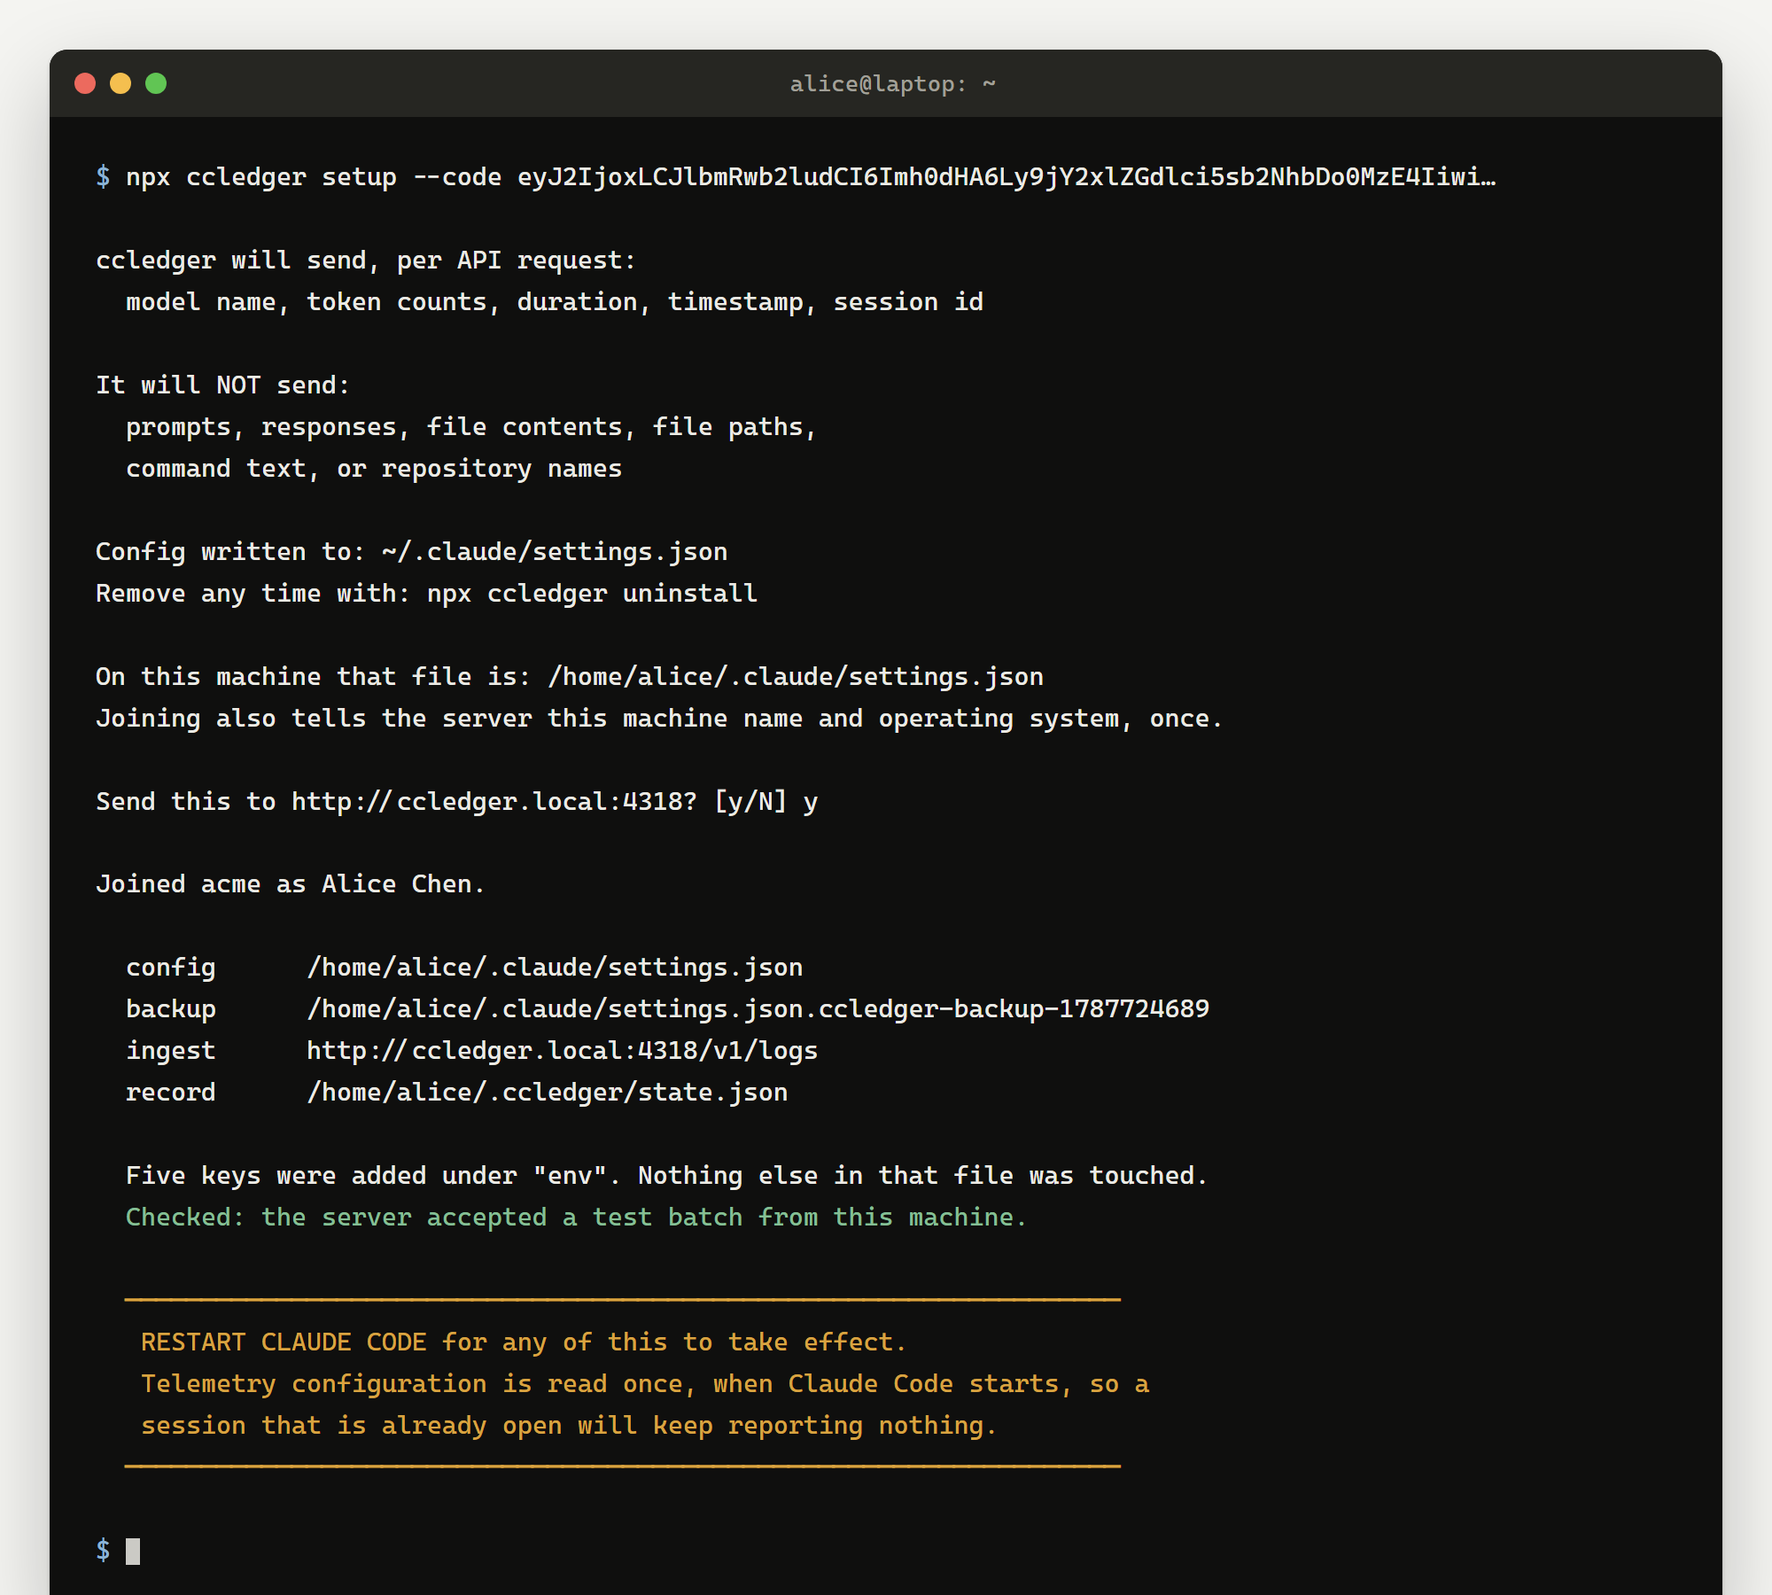
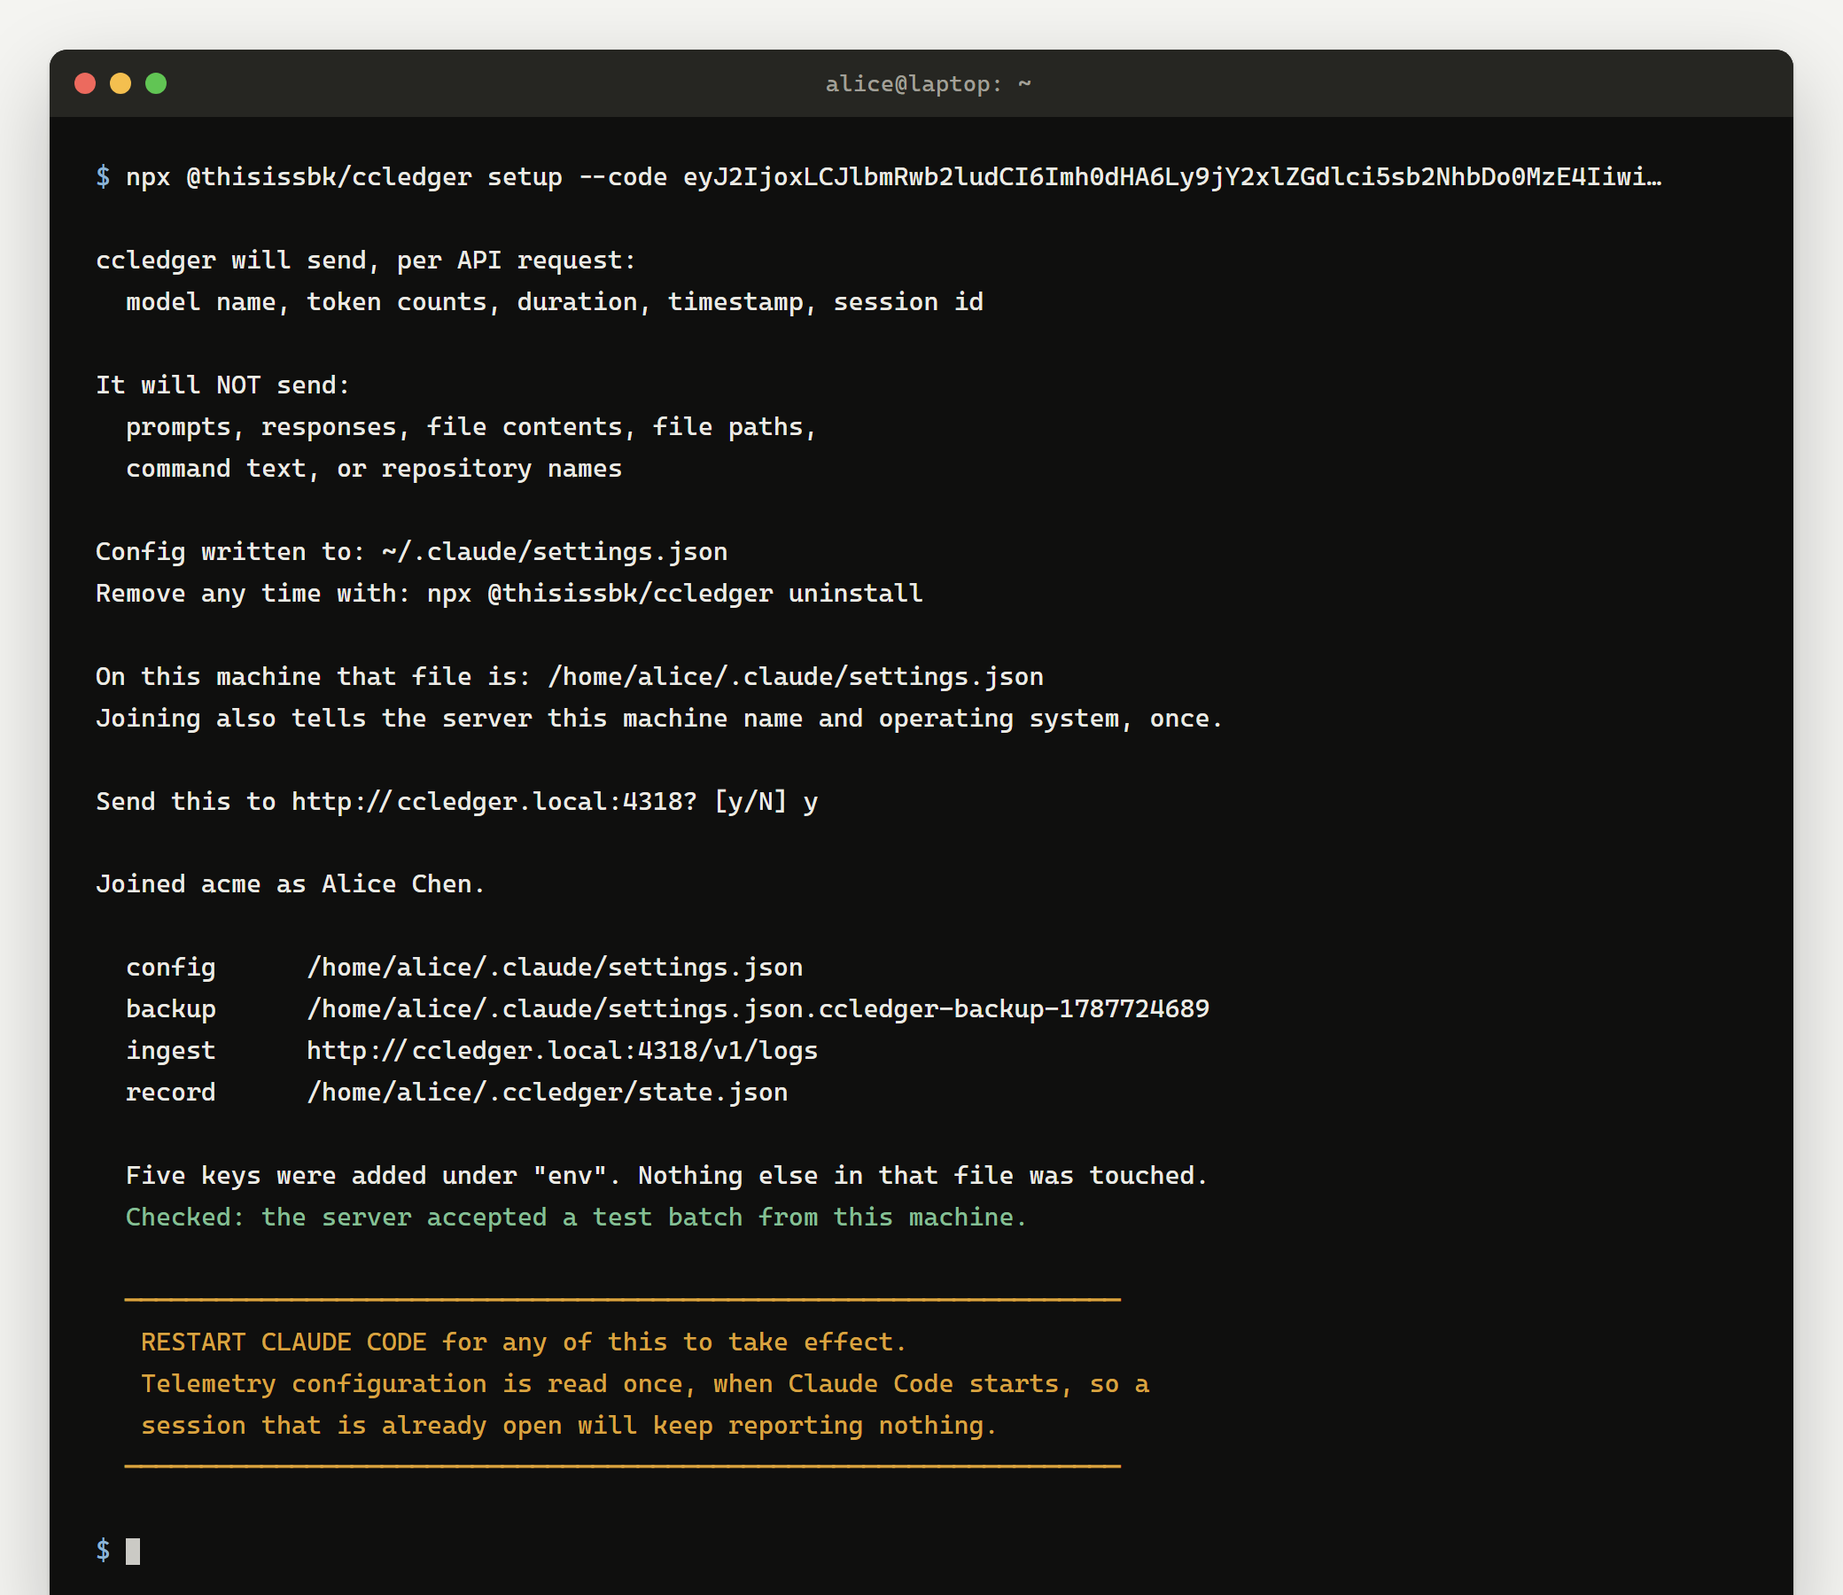
chore: publish under the @thisissbk scope
The registry refused `ccledger` outright: too close to `cc-ledger`, an
unrelated package published a fortnight ago. That is npm's typosquatting
check, and it is not something a maintainer can appeal or opt out of, so
the unscoped name is simply not available to this project.

Scoping is the smallest change that gets past it. The binary is still
`ccledger`, the mDNS name is still ccledger.local, the state directory is
still ~/.ccledger, and every document still calls the thing ccledger —
only the two commands that name the registry had to move.

The two the CLI prints, in the invite and the disclosure, now read the
name out of `package.json` rather than spelling it out, because those are
the lines an admin pastes into chat and a teammate runs unread. A wrong
version number there is cosmetic; a wrong package name installs somebody
else's software.

diff --git a/src/shared/version.ts b/src/shared/version.ts
@@ -1,6 +1,13 @@
 /**
- * The package version, read once. Both the CLI's `--version` and the server's
- * `/health` report it, and they must never disagree.
+ * Identity read out of `package.json`, once.
+ *
+ * Two things live here because both have to agree with what was actually
+ * published. The version is reported by the CLI's `--version` and the server's
+ * `/health`, which must never disagree. The name is what `ccledger invite`
+ * tells a teammate to `npx`, and getting that wrong is worse than a wrong
+ * version number: `npx ccledger` resolves to a different author's package, so
+ * the line an admin pastes into chat has to be the registry name this build was
+ * published under rather than the command it installs.
  */
 
 import { readFileSync } from 'node:fs';
@@ -9,29 +16,52 @@ import { readFileSync } from 'node:fs';
 const UNKNOWN_VERSION = '0.0.0';
 
 /**
- * Reads the version from `package.json` at run time rather than importing it.
- * A JSON import would pull a file outside `rootDir` into the compile and change
- * the emitted layout; `readFileSync` keeps `dist/` a mirror of `src/`. The same
- * two-levels-up URL resolves from `src/shared/` under vitest, from `dist/shared/`
- * after a build, and from `node_modules/ccledger/dist/shared/` once installed.
+ * Used when `package.json` cannot be read. Scoped, because that is what is on
+ * the registry — the unscoped name was refused as too close to an unrelated
+ * package, and it belongs to somebody else's project.
  */
-function readPackageVersion(): string {
+const FALLBACK_PACKAGE_NAME = '@thisissbk/ccledger';
+
+/**
+ * Reads `package.json` at run time rather than importing it. A JSON import
+ * would pull a file outside `rootDir` into the compile and change the emitted
+ * layout; `readFileSync` keeps `dist/` a mirror of `src/`. The same
+ * two-levels-up URL resolves from `src/shared/` under vitest, from
+ * `dist/shared/` after a build, and from the installed package's own
+ * `dist/shared/` once published.
+ */
+function readManifest(): Readonly<Record<string, unknown>> | undefined {
   try {
     const text = readFileSync(new URL('../../package.json', import.meta.url), 'utf8');
     const parsed: unknown = JSON.parse(text);
     if (typeof parsed === 'object' && parsed !== null && !Array.isArray(parsed)) {
-      const version: unknown = (parsed as Record<string, unknown>).version;
-      if (typeof version === 'string' && version !== '') return version;
+      return parsed as Record<string, unknown>;
     }
   } catch {
     // An unreadable package.json is a packaging problem, not a reason to refuse
     // to boot and stop collecting telemetry that is already being exported.
   }
-  return UNKNOWN_VERSION;
+  return undefined;
 }
 
+/** One non-empty string field of the manifest, or `undefined`. */
+function stringField(
+  manifest: Readonly<Record<string, unknown>> | undefined,
+  key: string,
+): string | undefined {
+  const value: unknown = manifest?.[key];
+  return typeof value === 'string' && value !== '' ? value : undefined;
+}
+
+/** Resolved at module load: `/health` must not do file I/O per request. */
+const MANIFEST = readManifest();
+
+/** The running ccledger version. */
+export const VERSION: string = stringField(MANIFEST, 'version') ?? UNKNOWN_VERSION;
+
 /**
- * The running ccledger version. Resolved at module load: `/health` must not do
- * file I/O per request.
+ * The name this build is published under, for the `npx` lines the CLI prints.
+ * Taken from the manifest rather than written out, so it cannot drift from what
+ * `npm publish` actually uploaded.
  */
-export const VERSION: string = readPackageVersion();
+export const PACKAGE_NAME: string = stringField(MANIFEST, 'name') ?? FALLBACK_PACKAGE_NAME;

diff --git a/src/cli/setup.test.ts b/src/cli/setup.test.ts
@@ -18,6 +18,7 @@ import { afterEach, describe, expect, it, vi } from 'vitest';
 
 import { encodeInvite } from '../shared/invite.js';
 import { generateJoinCode } from '../shared/joincode.js';
+import { PACKAGE_NAME } from '../shared/version.js';
 import type { ClientPaths } from './paths.js';
 import { resolveClientPaths } from './paths.js';
 import { runSetup } from './setup.js';
@@ -204,7 +205,7 @@ describe('runSetup', () => {
     expect(run.out).toContain('  prompts, responses, file contents, file paths,');
     expect(run.out).toContain('  command text, or repository names');
     expect(run.out).toContain('Config written to: ~/.claude/settings.json');
-    expect(run.out).toContain('Remove any time with: npx ccledger uninstall');
+    expect(run.out).toContain(`Remove any time with: npx ${PACKAGE_NAME} uninstall`);
     expect(run.err).toContain('cancelled');
     expect(readFileSync(paths.settingsPath, 'utf8')).toBe(EXISTING);
   });

diff --git a/src/cli/setup.ts b/src/cli/setup.ts
@@ -21,6 +21,7 @@ import { hostname, platform, release } from 'node:os';
 import { OTLP_LOGS_PATH, JOIN_PATH, MEMBER_TOKEN_PREFIX } from '../shared/constants.js';
 import { MAX_DISPLAY_NAME_LENGTH, decodeInvite, normaliseDisplayName } from '../shared/invite.js';
 import type { JoinRequestBody, JoinResponseBody } from '../shared/types.js';
+import { PACKAGE_NAME } from '../shared/version.js';
 import { errorTextOf, request } from './http.js';
 import { fail, maskSecrets, say, warn } from './io.js';
 import type { JsonEntry } from './jsonedit.js';
@@ -58,7 +59,7 @@ const DISCLOSURE: readonly string[] = [
   '  command text, or repository names',
   '',
   'Config written to: ~/.claude/settings.json',
-  'Remove any time with: npx ccledger uninstall',
+  `Remove any time with: npx ${PACKAGE_NAME} uninstall`,
 ];
 
 /** A valid OTLP logs payload carrying no records. Proves the token without storing a row. */

diff --git a/src/cli/invite.ts b/src/cli/invite.ts
@@ -15,6 +15,7 @@ import { getConfig } from '../db/config.js';
 import { createJoinCodeStore } from '../db/joincodes.js';
 import { CONFIG_PUBLIC_URL, JOIN_CODE_TTL_MS } from '../shared/constants.js';
 import { encodeInvite, normaliseDisplayName, normaliseEndpoint } from '../shared/invite.js';
+import { PACKAGE_NAME } from '../shared/version.js';
 import { openMigratedDatabase } from './database.js';
 import { fail, say, warn } from './io.js';
 
@@ -71,7 +72,7 @@ export function runInvite(rawName: string, options: InviteOptions): void {
     say();
     say('Send them this line:');
     say();
-    say(`  npx ccledger setup --code ${invite}`);
+    say(`  npx ${PACKAGE_NAME} setup --code ${invite}`);
     say();
     say(`The code works once and expires in ${String(TTL_HOURS)} hours.`);
 

diff --git a/docs/install.md b/docs/install.md
@@ -5,13 +5,13 @@ One person on the team runs the server. Everyone else runs
 
 There are two ways to run it.
 
-|               | Laptop mode                                        | VPS mode                           |
-| ------------- | -------------------------------------------------- | ---------------------------------- |
-| Who it is for | A team in one office or on one VPN                 | Anyone remote                      |
-| Transport     | Plain HTTP over the LAN                            | HTTPS, certificate handled for you |
-| Discovery     | Advertised as `ccledger.local` over mDNS           | A domain you own                   |
-| Uptime        | Only while that laptop is awake and on the network | Always                             |
-| Setup         | `npm install -g ccledger && ccledger serve`        | `docker compose up -d`             |
+|               | Laptop mode                                            | VPS mode                           |
+| ------------- | ------------------------------------------------------ | ---------------------------------- |
+| Who it is for | A team in one office or on one VPN                     | Anyone remote                      |
+| Transport     | Plain HTTP over the LAN                                | HTTPS, certificate handled for you |
+| Discovery     | Advertised as `ccledger.local` over mDNS               | A domain you own                   |
+| Uptime        | Only while that laptop is awake and on the network     | Always                             |
+| Setup         | `npm install -g @thisissbk/ccledger && ccledger serve` | `docker compose up -d`             |
 
 Laptop mode is the fast way to find out whether the thing is useful to you.
 Move to VPS mode when it is, or immediately if anyone on the team works
@@ -31,11 +31,14 @@ copying that file, though tokens are tied to the database, so teammates re-run
 Node 22 or newer is required. `better-sqlite3` declares it, and on Node 20 the
 native addon crashes the process as soon as a database is opened.
 
+The package is scoped, `@thisissbk/ccledger`, because npm holds the unscoped
+name for an unrelated project. The command it installs is plain `ccledger`.
+
 ```console
 $ node --version
 v22.14.0
 
-$ npm install -g ccledger
+$ npm install -g @thisissbk/ccledger
 
 added 79 packages in 8s
 
@@ -156,7 +159,7 @@ Invite for Alice Chen
 
 Send them this line:
 
-  npx ccledger setup --code eyJ2IjoxLCJlbmRwb2ludCI6Imh0dHA6Ly9jY2xlZGdlci5sb2NhbDo0MzE4IiwiY29kZSI6IjU3VEotNTc2RS05NUVLIiwibmFtZSI6IkFsaWNlIENoZW4ifQ
+  npx @thisissbk/ccledger setup --code eyJ2IjoxLCJlbmRwb2ludCI6Imh0dHA6Ly9jY2xlZGdlci5sb2NhbDo0MzE4IiwiY29kZSI6IjU3VEotNTc2RS05NUVLIiwibmFtZSI6IkFsaWNlIENoZW4ifQ
 
 The code works once and expires in 24 hours.
 
@@ -311,7 +314,7 @@ Invite for Alice Chen
 
 Send them this line:
 
-  npx ccledger setup --code eyJ2IjoxLCJlbmRwb2ludCI6Imh0dHBzOi8vY2NsZWRnZXIuZXhhbXBsZS5jb20iLCJjb2RlIjoiQldIVy01RjNWLUJSWE4iLCJuYW1lIjoiQWxpY2UgQ2hlbiJ9
+  npx @thisissbk/ccledger setup --code eyJ2IjoxLCJlbmRwb2ludCI6Imh0dHBzOi8vY2NsZWRnZXIuZXhhbXBsZS5jb20iLCJjb2RlIjoiQldIVy01RjNWLUJSWE4iLCJuYW1lIjoiQWxpY2UgQ2hlbiJ9
 
 The code works once and expires in 24 hours.
 ```

diff --git a/README.md b/README.md
@@ -3,9 +3,9 @@
 Team usage ledger for Claude Code. See who is using how many tokens.
 
 [![CI](https://github.com/shakibbinkabir/ccledger/actions/workflows/ci.yml/badge.svg)](https://github.com/shakibbinkabir/ccledger/actions/workflows/ci.yml)
-[![npm](https://img.shields.io/npm/v/ccledger.svg)](https://www.npmjs.com/package/ccledger)
-[![license](https://img.shields.io/npm/l/ccledger.svg)](LICENSE)
-[![node](https://img.shields.io/node/v/ccledger.svg)](package.json)
+[![npm](https://img.shields.io/npm/v/%40thisissbk%2Fccledger.svg)](https://www.npmjs.com/package/@thisissbk/ccledger)
+[![license](https://img.shields.io/npm/l/%40thisissbk%2Fccledger.svg)](LICENSE)
+[![node](https://img.shields.io/node/v/%40thisissbk%2Fccledger.svg)](package.json)
 
 ![The ccledger dashboard: four stat tiles, tokens over time as a stacked area, tokens by model, and a per-member table with share, trend and estimated cost](docs/images/dashboard.png)
 
@@ -40,7 +40,7 @@ you get per-person attribution across the whole team in one place.
 a VPS. Three commands:
 
 ```console
-$ npm install -g ccledger
+$ npm install -g @thisissbk/ccledger
 added 79 packages in 8s
 
 $ ccledger serve
@@ -80,10 +80,14 @@ Invite for Alice Chen
 
 Send them this line:
 
-  npx ccledger setup --code eyJ2IjoxLCJlbmRwb2ludCI6Imh0dHA6Ly9jY2xlZGdlci5sb2NhbDo0MzE4IiwiY29kZSI6IjU3VEotNTc2RS05NUVLIiwibmFtZSI6IkFsaWNlIENoZW4ifQ
+  npx @thisissbk/ccledger setup --code eyJ2IjoxLCJlbmRwb2ludCI6Imh0dHA6Ly9jY2xlZGdlci5sb2NhbDo0MzE4IiwiY29kZSI6IjU3VEotNTc2RS05NUVLIiwibmFtZSI6IkFsaWNlIENoZW4ifQ
 
 The code works once and expires in 24 hours.
 ```
+
+The package is scoped — `@thisissbk/ccledger` — because npm holds the
+unscoped name for an unrelated project. The command it installs is plain
+`ccledger`.
 
 The server has to keep running to receive anything. See
 [docs/install.md](docs/install.md) for both deployment modes, including the
@@ -94,7 +98,7 @@ Docker stack that gets you TLS and a restart policy.
 ![ccledger setup running on a teammate's machine: the disclosure, the confirmation, the four paths it wrote, and the restart notice](docs/images/setup.png)
 
 ```console
-$ npx ccledger setup --code eyJ2IjoxLCJlbmRwb2ludCI6Imh0dHA6…
+$ npx @thisissbk/ccledger setup --code eyJ2IjoxLCJlbmRwb2ludCI6Imh0dHA6…
 
 ccledger will send, per API request:
   model name, token counts, duration, timestamp, session id
@@ -104,7 +108,7 @@ It will NOT send:
   command text, or repository names
 
 Config written to: ~/.claude/settings.json
-Remove any time with: npx ccledger uninstall
+Remove any time with: npx @thisissbk/ccledger uninstall
 
 On this machine that file is: /home/alice/.claude/settings.json
 Joining also tells the server this machine name and operating system, once.

diff --git a/docs/setup.md b/docs/setup.md
@@ -19,7 +19,7 @@ turns them on. The full list is in [privacy.md](privacy.md).
 a proxy, it does not touch your Claude login, and Claude Code keeps working
 exactly the same when the ccledger server is unreachable.
 
-**How to undo it.** `npx ccledger uninstall`, any time, no permission needed.
+**How to undo it.** `npx @thisissbk/ccledger uninstall`, any time, no permission needed.
 
 ---
 
@@ -29,7 +29,7 @@ It looks like this. The long string is the invite; it bundles the server
 address and a single-use join code.
 
 ```console
-$ npx ccledger setup --code eyJ2IjoxLCJlbmRwb2ludCI6Imh0dHA6Ly9jY2xlZGdlci5sb2NhbDo0MzE4Iiwi…
+$ npx @thisissbk/ccledger setup --code eyJ2IjoxLCJlbmRwb2ludCI6Imh0dHA6Ly9jY2xlZGdlci5sb2NhbDo0MzE4Iiwi…
 ```
 
 You need Node 22 or newer:
@@ -41,7 +41,7 @@ v22.14.0
 
 `npx` downloads ccledger, runs it once, and does not install it. If you would
 rather have the command permanently — worth it, because `ccledger doctor` is
-the thing you will want later — use `npm install -g ccledger` and drop the
+the thing you will want later — use `npm install -g @thisissbk/ccledger` and drop the
 `npx`.
 
 ## 2. Read the disclosure and say yes
@@ -51,7 +51,7 @@ Nothing is written before you answer. This is the whole run:
 ![ccledger setup: the disclosure, the confirmation prompt, the four paths it wrote, and the restart notice](images/setup.png)
 
 ```console
-$ npx ccledger setup --code eyJ2IjoxLCJlbmRwb2ludCI6Imh0dHA6Ly9jY2xlZGdlci5sb2NhbDo0MzE4Iiwi…
+$ npx @thisissbk/ccledger setup --code eyJ2IjoxLCJlbmRwb2ludCI6Imh0dHA6Ly9jY2xlZGdlci5sb2NhbDo0MzE4Iiwi…
 
 ccledger will send, per API request:
   model name, token counts, duration, timestamp, session id
@@ -61,7 +61,7 @@ It will NOT send:
   command text, or repository names
 
 Config written to: ~/.claude/settings.json
-Remove any time with: npx ccledger uninstall
+Remove any time with: npx @thisissbk/ccledger uninstall
 
 On this machine that file is: /home/alice/.claude/settings.json
 Joining also tells the server this machine name and operating system, once.
@@ -172,7 +172,7 @@ $ ls ~/.claude/settings.json*
 It stops rather than overwriting when those keys already hold something else:
 
 ```console
-$ npx ccledger setup --code eyJ2IjoxLCJlbmRwb2ludCI6…
+$ npx @thisissbk/ccledger setup --code eyJ2IjoxLCJlbmRwb2ludCI6…
 
 These keys are already set in /home/alice/.claude/settings.json:
 
@@ -196,7 +196,7 @@ somewhere else — it says so and tells you to run `ccledger uninstall` first.
 ## Removing it
 
 ```console
-$ npx ccledger uninstall
+$ npx @thisissbk/ccledger uninstall
 
 These keys will be removed from /home/alice/.claude/settings.json:
 

diff --git a/SECURITY.md b/SECURITY.md
@@ -49,7 +49,7 @@ you sit on something.
 ## Supported versions
 
 Pre-1.0, only the latest published minor gets fixes. Upgrading is
-`npm install -g ccledger@latest`, or `git pull && docker compose up -d --build`
+`npm install -g @thisissbk/ccledger@latest`, or `git pull && docker compose up -d --build`
 for VPS mode. Migrations run on boot and the database carries forward.
 
 | Version | Supported |

diff --git a/CONTRIBUTING.md b/CONTRIBUTING.md
@@ -100,7 +100,7 @@ need a member token first, so issue an invite and join:
 ```console
 $ node dist/cli/index.js invite dev --db /tmp/dev.db
 ...
-  npx ccledger setup --code eyJ2Ijox…
+  npx @thisissbk/ccledger setup --code eyJ2Ijox…
 
 $ curl -s -X POST http://localhost:4318/v1/logs \
     -H "Authorization: Bearer ccm_…" \
